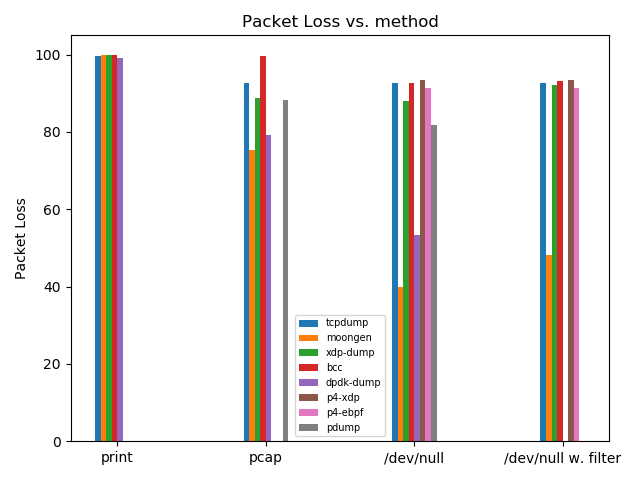
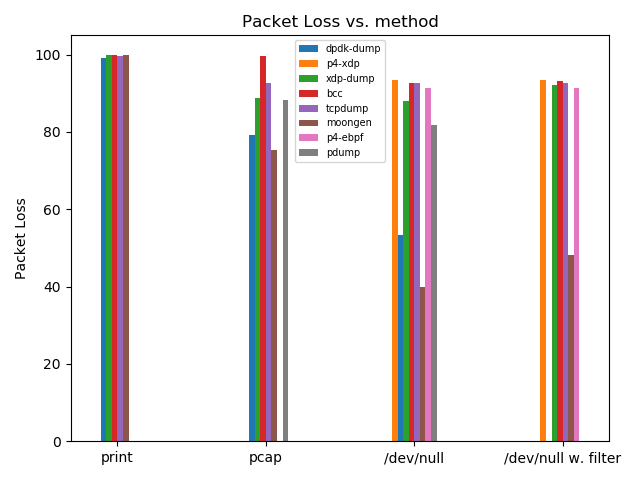
methods comparison plots amelioration

diff --git a/Methods_comparison/plot.py b/Methods_comparison/plot.py
@@ -24,12 +24,12 @@ x = np.arange(len(labels))  # the label locations
 width = 0.30  # the width of the bars
 
 fig, ax = plt.subplots()
-rects1 = ax.bar(x - 4*width/8 + width/16, tcpdump_loss, width/8, label='tcpdump')
-rects2 = ax.bar(x - 3*width/8 + width/16, moongen_loss, width/8, label='moongen')
+rects1 = ax.bar(x - 3*width/8 + width/16, dpdkdump_loss, width/8, label='dpdk-dump')
+rects2 = ax.bar(x - 4*width/8 + width/16, p4_xdp_loss, width/8, label='p4-xdp')
 rects3 = ax.bar(x - 2*width/8 + width/16, xdp_loss, width/8, label='xdp-dump')
 rects4 = ax.bar(x - width/8 + width/16, bcc_loss, width/8, label='bcc')
-rects5 = ax.bar(x + width/8 - width/16, dpdkdump_loss, width/8, label='dpdk-dump')
-rects6 = ax.bar(x + 2*width/8 - width/16, p4_xdp_loss, width/8, label='p4-xdp')
+rects5 = ax.bar(x + width/8 - width/16, tcpdump_loss, width/8, label='tcpdump')
+rects6 = ax.bar(x + 2*width/8 - width/16, moongen_loss, width/8, label='moongen')
 rects7 = ax.bar(x + 3*width/8 - width/16, p4_ebpf_loss, width/8, label='p4-ebpf')
 rects8 = ax.bar(x + 4*width/8 - width/16, pdump_loss, width/8, label='pdump')
 # Add some text for labels, title and custom x-axis tick labels, etc.
@@ -37,19 +37,19 @@ ax.set_ylabel('Packet Loss')
 ax.set_title('Packet Loss vs. method')
 ax.set_xticks(x)
 ax.set_xticklabels(labels)
-ax.legend(prop={'size': 7})
+ax.legend(loc="upper center",prop={'size': 7})
 
 fig.tight_layout()
 
 plt.savefig("pkt_loss.png")
 
 fig, ax = plt.subplots()
-rects1 = ax.bar(x - 4*width/8 + width/16, tcpdump, width/8, label='tcpdump')
-rects2 = ax.bar(x - 3*width/8 + width/16, moongen, width/8, label='moongen')
+rects1 = ax.bar(x - 3*width/8 + width/16, dpdkdump, width/8, label='dpdk-dump')
+rects2 = ax.bar(x - 4*width/8 + width/16, p4_xdp, width/8, label='p4-xdp')
 rects3 = ax.bar(x - 2*width/8 + width/16, xdp, width/8, label='xdp-dump')
 rects4 = ax.bar(x - 1*width/8 + width/16, bcc, width/8, label='bcc')
-rects5 = ax.bar(x + width/8 - width/16, dpdkdump, width/8, label='dpdk-dump')
-rects6 = ax.bar(x + 2*width/8 - width/16, p4_xdp, width/8, label='p4-xdp')
+rects5 = ax.bar(x + width/8 - width/16, tcpdump, width/8, label='tcpdump')
+rects6 = ax.bar(x + 2*width/8 - width/16, moongen, width/8, label='moongen')
 rects7 = ax.bar(x + 3*width/8 - width/16, p4_ebpf, width/8, label='p4-ebpf')
 rects8 = ax.bar(x + 4*width/8 - width/16, pdump, width/8, label='pdump')
 # Add some text for labels, title and custom x-axis tick labels, etc.
